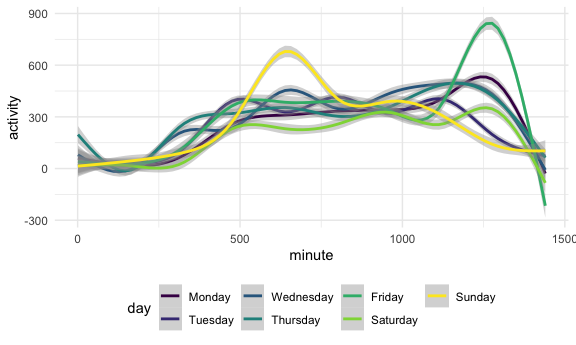
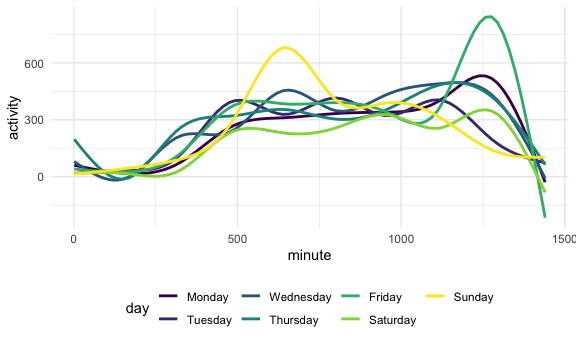
final commmit - hw completed

diff --git a/p8105_hw3_rch2155.md b/p8105_hw3_rch2155.md
@@ -162,46 +162,46 @@ accel_df %>%
     names_from = day,
     values_from = total_activity
   ) %>%
-  knitr::kable(digits = 1)
+  knitr::kable()
 ```
 
-| day\_id |   Monday |  Tuesday | Wednesday | Thursday |   Friday | Saturday | Sunday |
-| ------: | -------: | -------: | --------: | -------: | -------: | -------: | -----: |
-|       2 |  78828.1 |       NA |        NA |       NA |       NA |       NA |     NA |
-|       9 | 295431.0 |       NA |        NA |       NA |       NA |       NA |     NA |
-|      16 | 685910.0 |       NA |        NA |       NA |       NA |       NA |     NA |
-|      23 | 409450.0 |       NA |        NA |       NA |       NA |       NA |     NA |
-|      30 | 389080.0 |       NA |        NA |       NA |       NA |       NA |     NA |
-|       6 |       NA | 307094.2 |        NA |       NA |       NA |       NA |     NA |
-|      13 |       NA | 423245.0 |        NA |       NA |       NA |       NA |     NA |
-|      20 |       NA | 381507.0 |        NA |       NA |       NA |       NA |     NA |
-|      27 |       NA | 319568.0 |        NA |       NA |       NA |       NA |     NA |
-|      34 |       NA | 367824.0 |        NA |       NA |       NA |       NA |     NA |
-|       7 |       NA |       NA |    340115 |       NA |       NA |       NA |     NA |
-|      14 |       NA |       NA |    440962 |       NA |       NA |       NA |     NA |
-|      21 |       NA |       NA |    468869 |       NA |       NA |       NA |     NA |
-|      28 |       NA |       NA |    434460 |       NA |       NA |       NA |     NA |
-|      35 |       NA |       NA |    445366 |       NA |       NA |       NA |     NA |
-|       5 |       NA |       NA |        NA | 355923.6 |       NA |       NA |     NA |
-|      12 |       NA |       NA |        NA | 474048.0 |       NA |       NA |     NA |
-|      19 |       NA |       NA |        NA | 371230.0 |       NA |       NA |     NA |
-|      26 |       NA |       NA |        NA | 340291.0 |       NA |       NA |     NA |
-|      33 |       NA |       NA |        NA | 549658.0 |       NA |       NA |     NA |
-|       1 |       NA |       NA |        NA |       NA | 480542.6 |       NA |     NA |
-|       8 |       NA |       NA |        NA |       NA | 568839.0 |       NA |     NA |
-|      15 |       NA |       NA |        NA |       NA | 467420.0 |       NA |     NA |
-|      22 |       NA |       NA |        NA |       NA | 154049.0 |       NA |     NA |
-|      29 |       NA |       NA |        NA |       NA | 620860.0 |       NA |     NA |
-|       3 |       NA |       NA |        NA |       NA |       NA |   376254 |     NA |
-|      10 |       NA |       NA |        NA |       NA |       NA |   607175 |     NA |
-|      17 |       NA |       NA |        NA |       NA |       NA |   382928 |     NA |
-|      24 |       NA |       NA |        NA |       NA |       NA |     1440 |     NA |
-|      31 |       NA |       NA |        NA |       NA |       NA |     1440 |     NA |
-|       4 |       NA |       NA |        NA |       NA |       NA |       NA | 631105 |
-|      11 |       NA |       NA |        NA |       NA |       NA |       NA | 422018 |
-|      18 |       NA |       NA |        NA |       NA |       NA |       NA | 467052 |
-|      25 |       NA |       NA |        NA |       NA |       NA |       NA | 260617 |
-|      32 |       NA |       NA |        NA |       NA |       NA |       NA | 138421 |
+| day\_id |    Monday |  Tuesday | Wednesday | Thursday |   Friday | Saturday | Sunday |
+| ------: | --------: | -------: | --------: | -------: | -------: | -------: | -----: |
+|       2 |  78828.07 |       NA |        NA |       NA |       NA |       NA |     NA |
+|       9 | 295431.00 |       NA |        NA |       NA |       NA |       NA |     NA |
+|      16 | 685910.00 |       NA |        NA |       NA |       NA |       NA |     NA |
+|      23 | 409450.00 |       NA |        NA |       NA |       NA |       NA |     NA |
+|      30 | 389080.00 |       NA |        NA |       NA |       NA |       NA |     NA |
+|       6 |        NA | 307094.2 |        NA |       NA |       NA |       NA |     NA |
+|      13 |        NA | 423245.0 |        NA |       NA |       NA |       NA |     NA |
+|      20 |        NA | 381507.0 |        NA |       NA |       NA |       NA |     NA |
+|      27 |        NA | 319568.0 |        NA |       NA |       NA |       NA |     NA |
+|      34 |        NA | 367824.0 |        NA |       NA |       NA |       NA |     NA |
+|       7 |        NA |       NA |    340115 |       NA |       NA |       NA |     NA |
+|      14 |        NA |       NA |    440962 |       NA |       NA |       NA |     NA |
+|      21 |        NA |       NA |    468869 |       NA |       NA |       NA |     NA |
+|      28 |        NA |       NA |    434460 |       NA |       NA |       NA |     NA |
+|      35 |        NA |       NA |    445366 |       NA |       NA |       NA |     NA |
+|       5 |        NA |       NA |        NA | 355923.6 |       NA |       NA |     NA |
+|      12 |        NA |       NA |        NA | 474048.0 |       NA |       NA |     NA |
+|      19 |        NA |       NA |        NA | 371230.0 |       NA |       NA |     NA |
+|      26 |        NA |       NA |        NA | 340291.0 |       NA |       NA |     NA |
+|      33 |        NA |       NA |        NA | 549658.0 |       NA |       NA |     NA |
+|       1 |        NA |       NA |        NA |       NA | 480542.6 |       NA |     NA |
+|       8 |        NA |       NA |        NA |       NA | 568839.0 |       NA |     NA |
+|      15 |        NA |       NA |        NA |       NA | 467420.0 |       NA |     NA |
+|      22 |        NA |       NA |        NA |       NA | 154049.0 |       NA |     NA |
+|      29 |        NA |       NA |        NA |       NA | 620860.0 |       NA |     NA |
+|       3 |        NA |       NA |        NA |       NA |       NA |   376254 |     NA |
+|      10 |        NA |       NA |        NA |       NA |       NA |   607175 |     NA |
+|      17 |        NA |       NA |        NA |       NA |       NA |   382928 |     NA |
+|      24 |        NA |       NA |        NA |       NA |       NA |     1440 |     NA |
+|      31 |        NA |       NA |        NA |       NA |       NA |     1440 |     NA |
+|       4 |        NA |       NA |        NA |       NA |       NA |       NA | 631105 |
+|      11 |        NA |       NA |        NA |       NA |       NA |       NA | 422018 |
+|      18 |        NA |       NA |        NA |       NA |       NA |       NA | 467052 |
+|      25 |        NA |       NA |        NA |       NA |       NA |       NA | 260617 |
+|      32 |        NA |       NA |        NA |       NA |       NA |       NA | 138421 |
 
 Using the above table, it can de determined that there was more activity
 during the first weeks of the recording and there was less activity on
@@ -213,16 +213,17 @@ period for each day.
 ``` r
 accel_df %>%
   ggplot(aes(x = minute, y = activity, color = day)) +
-  geom_smooth()
+  geom_smooth(se = FALSE)
 ```
 
 <img src="p8105_hw3_rch2155_files/figure-gfm/unnamed-chunk-8-1.png" width="90%" />
 
-Based on the plot, it can be determined that the person is in overall
-more active during the week compared to the weekend. There are also
-certain times of day that the person is more active including around
-minutes 500 and 1250. There is a big jump on Sunday around minute 650
-and a jump on Friday around minute 1250.
+Based on the plot, it can be determined that the person is overall more
+active during the week compared to the weekend. There are also certain
+times of day that the person is more active including around minutes 500
+and 1250. There is a big jump on Sunday around minute 650 and a jump on
+Friday around minute 1250. There is minimal activity at night on all
+days.
 
 ## Problem 3
 
@@ -250,11 +251,13 @@ weather_df =
   ny_noaa%>% 
   mutate(date = as.character(date)) %>% 
   separate(date, c("year", "month", "day")) %>% 
-  mutate(prcp = prcp/10) %>% 
-  mutate(tmax = as.numeric(tmax), tmin = as.numeric(tmin)) %>% 
-  mutate(tmax = tmax/10) %>% 
-  mutate(tmin = tmin/10) %>% 
-  mutate(month = as.numeric(month))
+  mutate(prcp = prcp/10,
+         tmax = as.numeric(tmax), 
+         tmin = as.numeric(tmin), 
+         tmax = tmax/10,
+         tmin = tmin/10,
+         month = as.numeric(month)
+)
 
 weather_df %>% 
   count(snow) %>% 
@@ -277,27 +280,41 @@ weather_df %>%
     ## # … with 272 more rows
 
 Given the above code, it can be determined that the most commonly
-observed amounts of snowfall are 0 mm, 25 mm, 13 mm, and missing values.
-This may be because the data was narrowed down to the weather stations
-in New York State and they may only normally get 0-1 inches of snow each
-year. Also, the missing values could be because there are already so
+observed amounts of snowfall are 0 mm and missing values. This may be
+because the weather stations sampled may only normally get 0 inches of
+snow each year and could also be because of the changing seasons during
+the year. Also, the missing values could be because there are already so
 many missing values throughout the dataset, as noted at the beginning of
 problem 3.
 
 The following code chunk creates a plot showing the average maximum
-temperature in January and July in each station across years.
+temperature in January and July in each station across years, with the
+month variable being converted to month name instead of number.
 
 ``` r
-weather_df %>%
-  group_by(id, year, month) %>%
+month_df =
+  tibble(
+    month = 1:12,
+    month_name = month.name
+  )
+
+weather_plot =
+  left_join(weather_df, month_df, by = "month") %>% 
+  group_by(id, year, month_name) %>%
   summarise(mean_tmax = mean(tmax)) %>% 
-  filter(month %in% c('1', '7')) %>% 
-  ggplot(aes(x = year, y = mean_tmax, fill = id)) +
+  filter(month_name %in% c("January", "July")) %>% 
+  ggplot(aes(x = year, y = mean_tmax)) +
   geom_point() +
-  facet_grid(. ~ month)
+  theme(axis.text.x = element_text(angle = 90, vjust = 0.5, hjust = 1)) +
+  facet_grid(. ~ month_name)
 ```
 
-<img src="p8105_hw3_rch2155_files/figure-gfm/unnamed-chunk-11-1.png" width="90%" />
+Each point in the above plot represents a weather station. Most of the
+points in the above plot are clustered around each other for each year.
+However, there are some outliers in each of the month plots. In the
+January plot, there is an outlier on the lower end of the average
+maximum temperature in 1982. In July, there is a far outlier in 1988 and
+some closer outliers in 1984, 2004 and 2007.
 
 The following code chunk creates a two-panel plot showing the maximum
 and minimum temperatures for the dataset and the distribution of
@@ -313,7 +330,7 @@ tmax_tmin_plot =
   
 snow_plot =
   weather_df %>% 
-  group_by(year, month, day) %>% 
+  group_by(year) %>% 
   filter(between(snow, 1, 99)) %>% 
   ggplot(aes(x = year, y = snow)) +
   geom_boxplot() +
